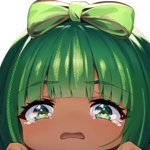
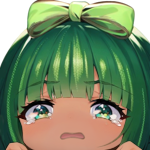
adjusted color of Melon cry pic, other refractoring

diff --git a/src/App.js b/src/App.js
@@ -32,20 +32,16 @@ const App = () => {
       return value;
     });
 
-    setWinner(checkWinner(updatedBoard)); // determines modal message and image if O or X wins
+    const winnerDeclared = checkWinner(updatedBoard)
 
     if ( // determines tie if board is filled and no winner is declared
-      checkWinner(updatedBoard) !== "X" &&
-      checkWinner(updatedBoard) !== "O" &&
+      !winnerDeclared &&
       updatedBoard.every((square) => square !== null)
     ) {
       setWinner("Y");
       setGameOver(true);
-      setTimeout(() => {
-        setModal(true);
-      }, 250);
+      setModal(true);
     }
-
     setBoard(updatedBoard);
     setXPlaying(!xPlaying);
   };
@@ -56,9 +52,8 @@ const App = () => {
 
       if (board[x] && board[x] === board[y] && board[y] === board[z]) {
         setGameOver(true);
-        setTimeout(function () {
-          setModal(true);
-        }, 250);
+        setWinner(board[x])
+        setModal(true);
         return board[x];
       }
     }
